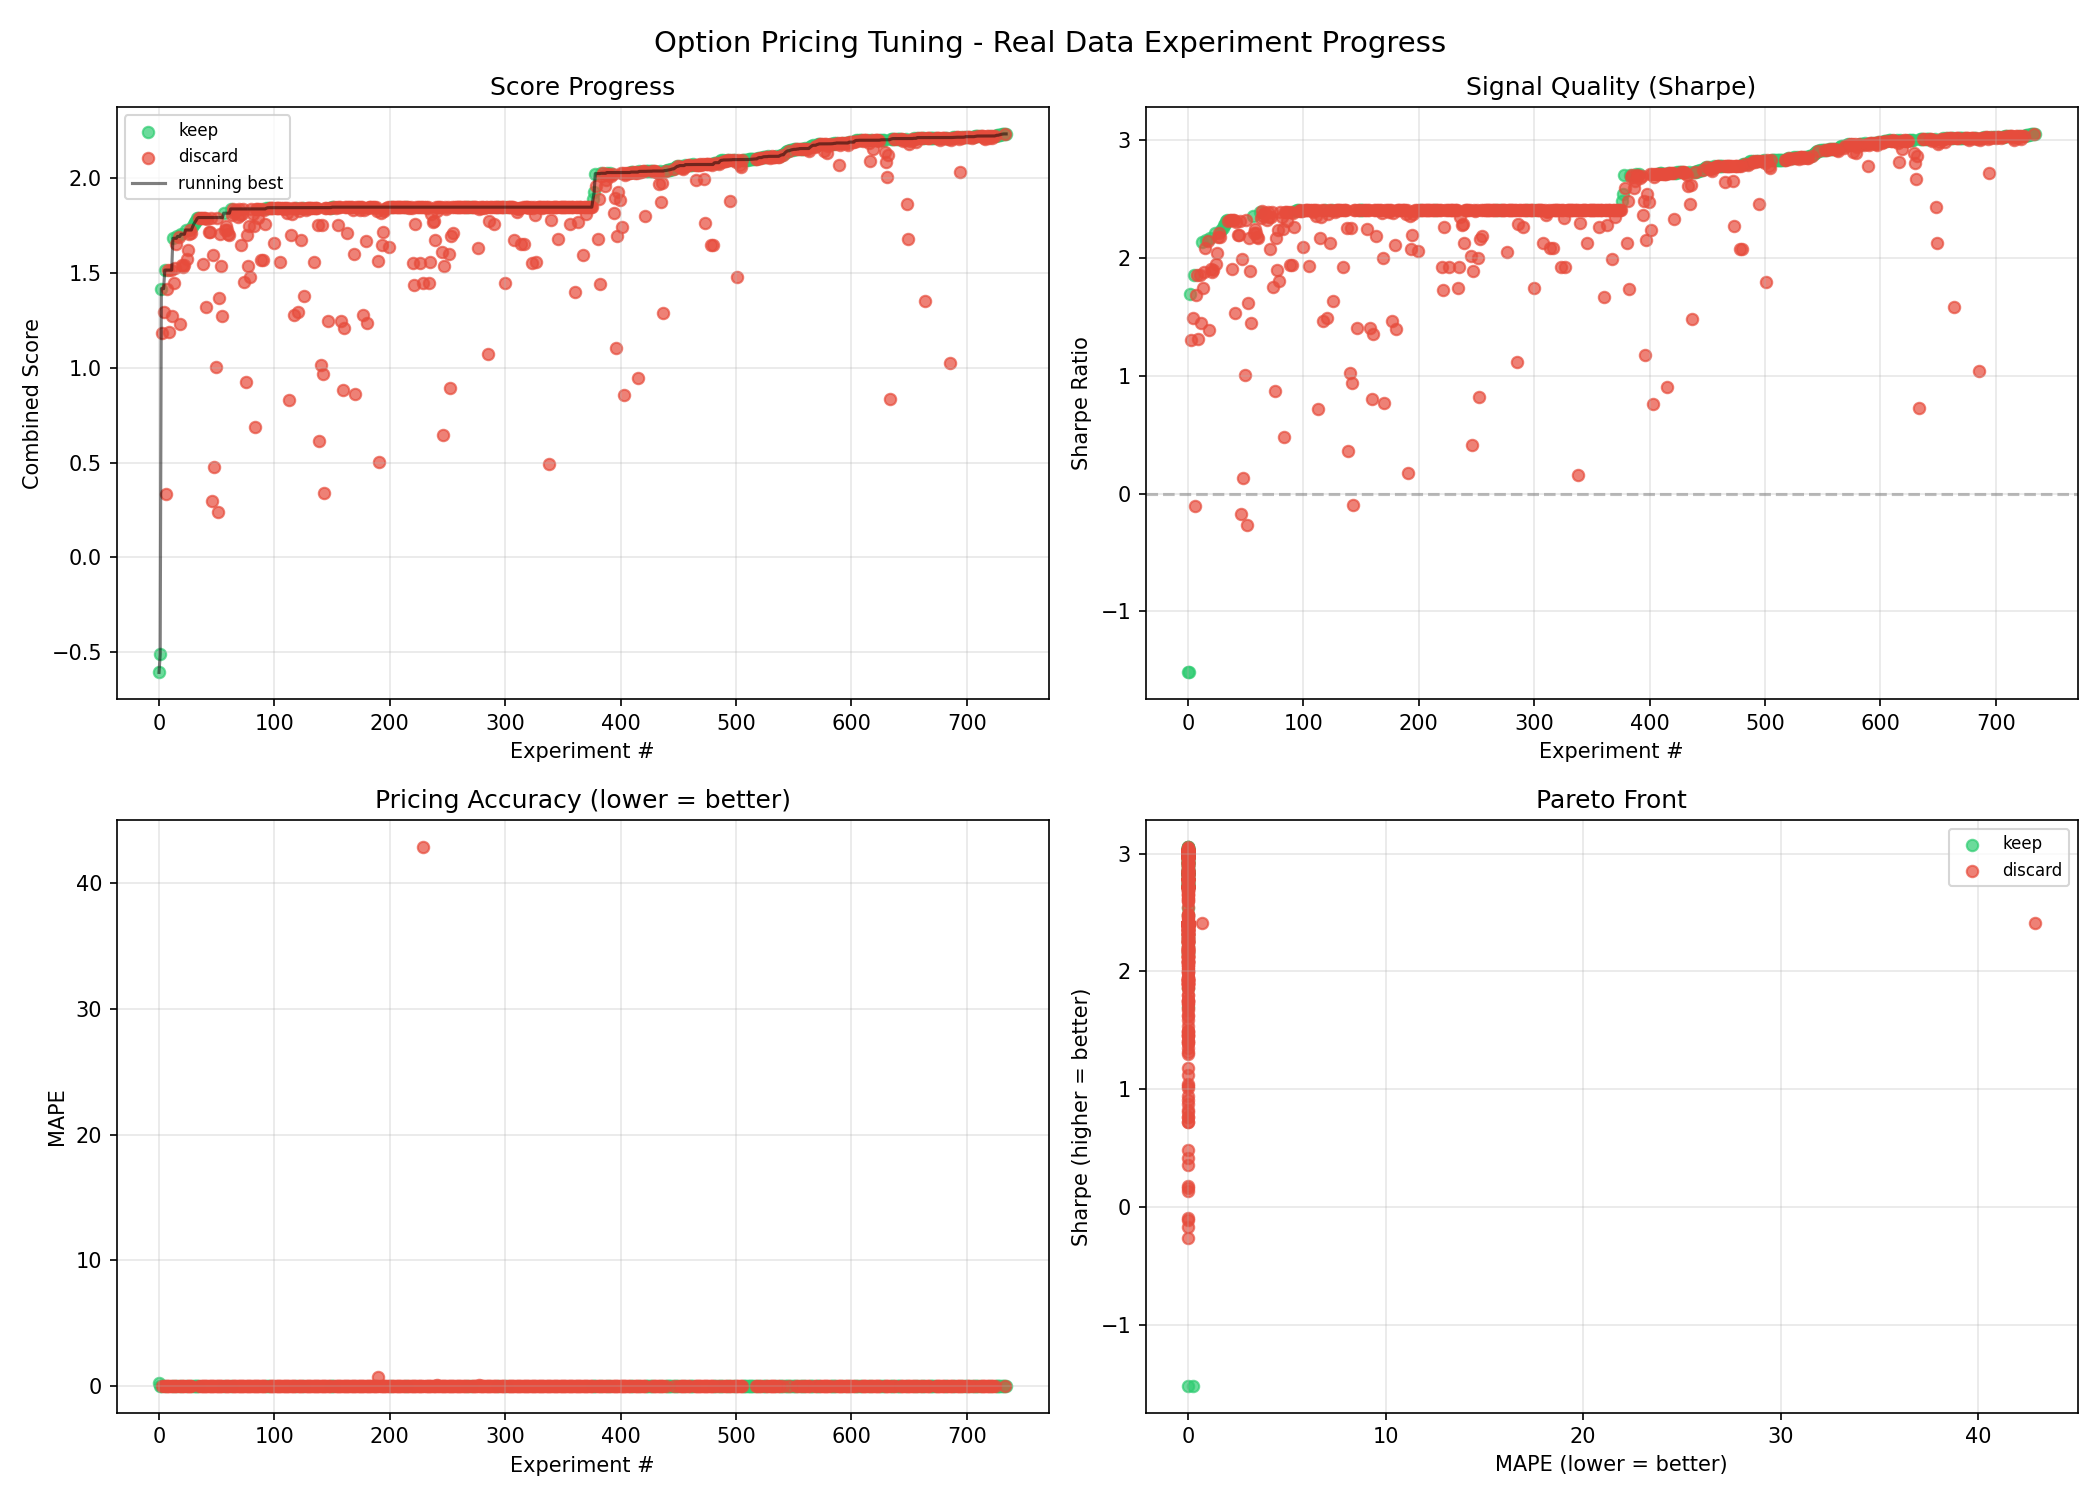
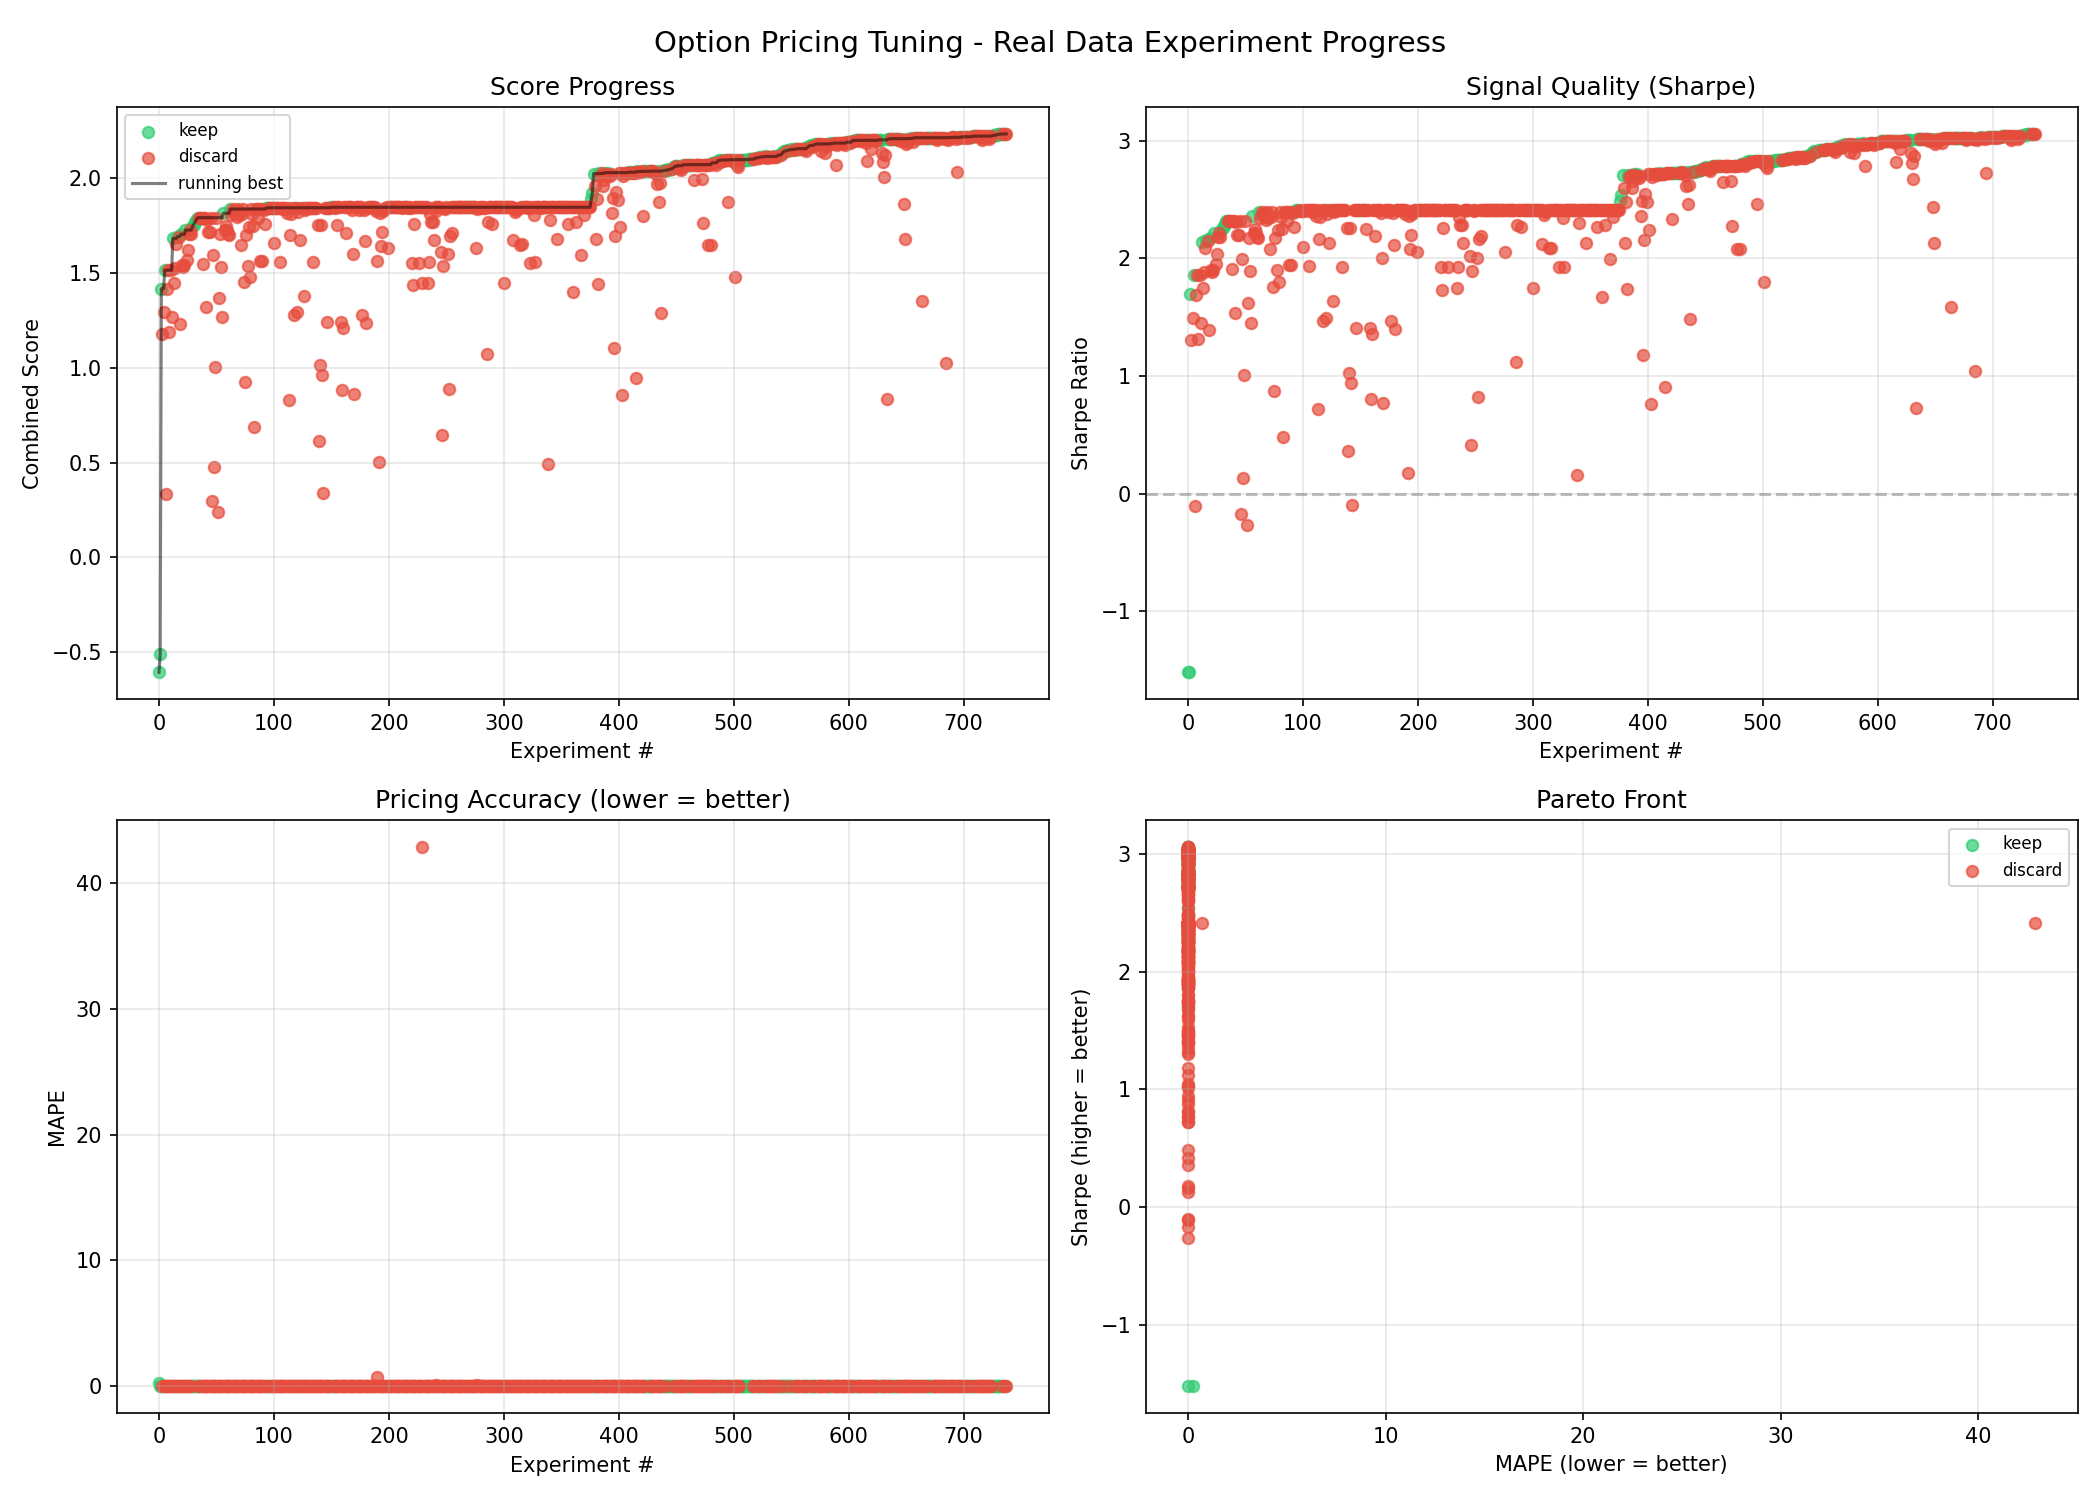
log exp738

diff --git a/README.md b/README.md
@@ -9,12 +9,12 @@ signals using **real stock market data** from Yahoo Finance.
 
 | Metric | Value |
 |---|---|
-| Combined Score | 2.2324 |
-| Sharpe Ratio | 3.0554 |
+| Combined Score | 2.2330 |
+| Sharpe Ratio | 3.0564 |
 | MAPE | 0.002003 |
 | Win Rate | 86.2% |
 | Trades | 29 |
-| Experiments | 735 (173 kept) |
+| Experiments | 738 (174 kept) |
 
 ## How It Works
 
